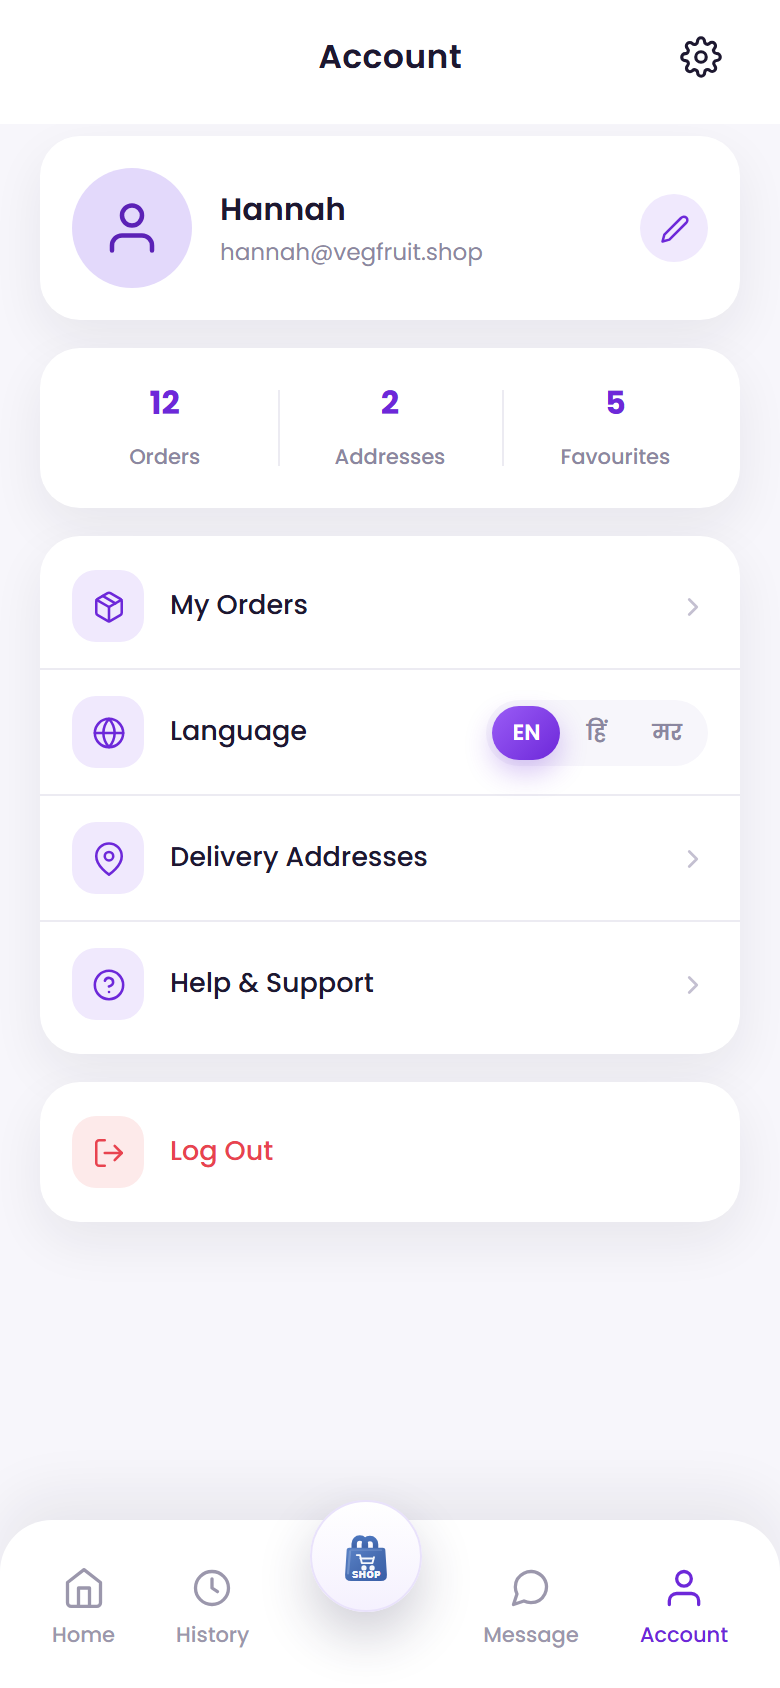
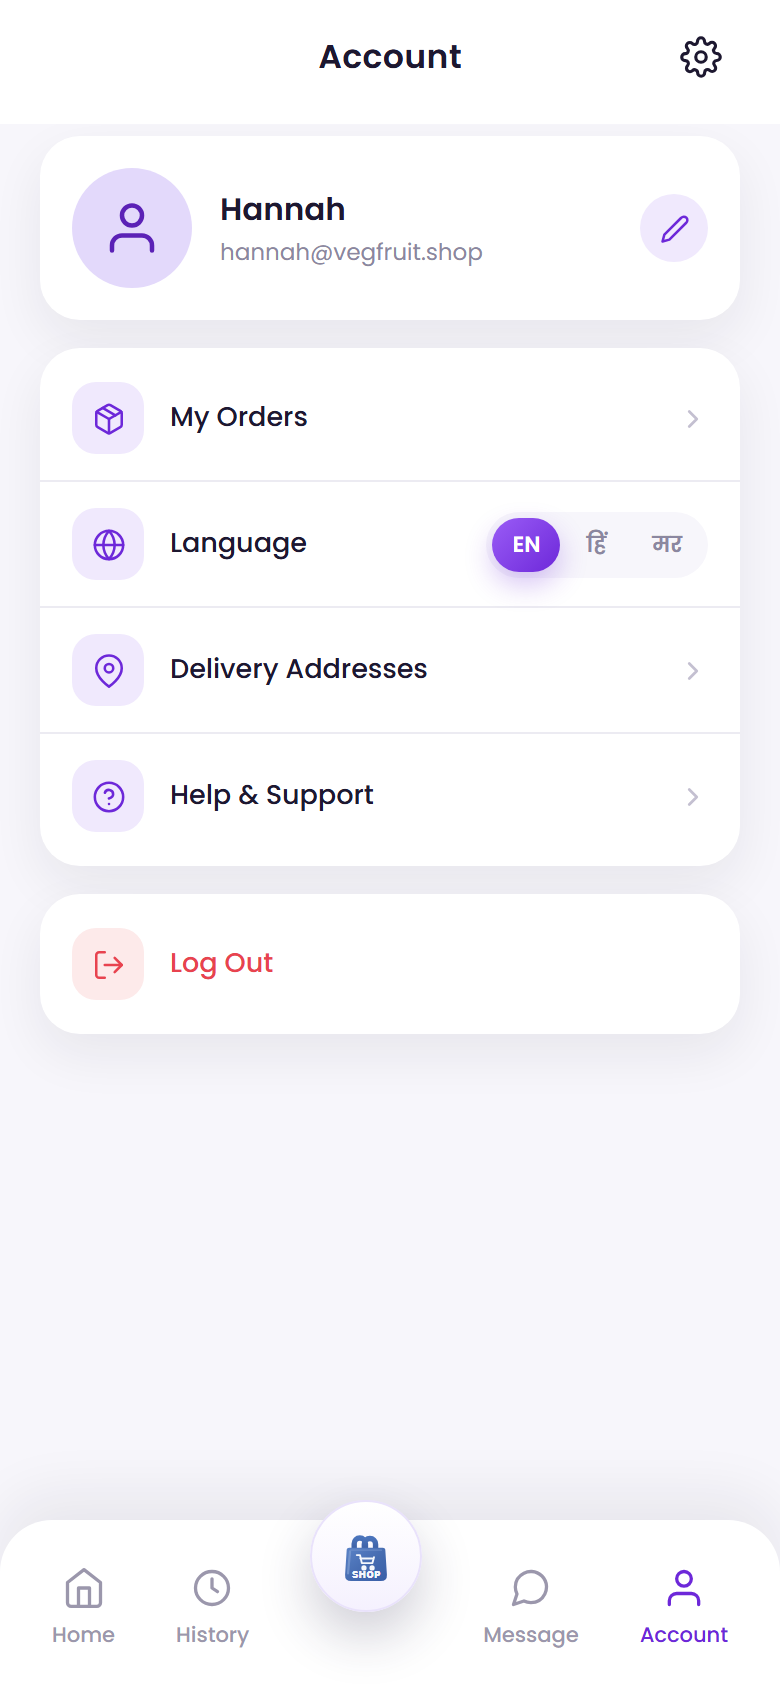
Account: remove Orders/Addresses/Favourites stats row

diff --git a/templates/app.js b/templates/app.js
@@ -208,9 +208,6 @@
       chat_hint: 'Send us a message — we usually reply within minutes.',
       account_title: 'Account',
       profile_name: 'Hannah',
-      stat_orders: 'Orders',
-      stat_favourites: 'Favourites',
-      stat_addresses: 'Addresses',
       lang_label: 'Language',
       menu_my_orders: 'My Orders',
       menu_addresses: 'Delivery Addresses',
@@ -400,9 +397,6 @@
       chat_hint: 'हमें संदेश भेजें — हम आमतौर पर मिनटों में जवाब देते हैं।',
       account_title: 'खाता',
       profile_name: 'हन्ना',
-      stat_orders: 'ऑर्डर',
-      stat_favourites: 'पसंदीदा',
-      stat_addresses: 'पते',
       lang_label: 'भाषा',
       menu_my_orders: 'मेरे ऑर्डर',
       menu_addresses: 'डिलीवरी पते',
@@ -592,9 +586,6 @@
       chat_hint: 'आम्हाला संदेश पाठवा — आम्ही सहसा काही मिनिटांत उत्तर देतो.',
       account_title: 'खाते',
       profile_name: 'हन्ना',
-      stat_orders: 'ऑर्डर',
-      stat_favourites: 'आवडते',
-      stat_addresses: 'पत्ते',
       lang_label: 'भाषा',
       menu_my_orders: 'माझ्या ऑर्डर्स',
       menu_addresses: 'वितरण पत्ते',
@@ -1823,10 +1814,6 @@
       window.TAZA.available().then(function (ok) {
         if (!ok || !window.TAZA.token()) return;
         window.TAZA.me().then(function (res) { paintProfile(res.user); }).catch(function () { /* noop */ });
-        window.TAZA.myOrders().then(function (res) {
-          var stat = $('.stats .stat b');
-          if (stat && res.orders) stat.textContent = res.orders.length;
-        }).catch(function () { /* noop */ });
       });
     }
 

diff --git a/templates/account.html b/templates/account.html
@@ -74,13 +74,6 @@
           </button>
         </section>
 
-        <!-- stats -->
-        <section class="stats">
-          <div class="stat"><b>12</b><span data-i18n="stat_orders">Orders</span></div>
-          <div class="stat"><b>2</b><span data-i18n="stat_addresses">Addresses</span></div>
-          <div class="stat"><b>5</b><span data-i18n="stat_favourites">Favourites</span></div>
-        </section>
-
         <!-- menu -->
         <nav class="menu-list">
           <a class="menu-item" href="history.html">
